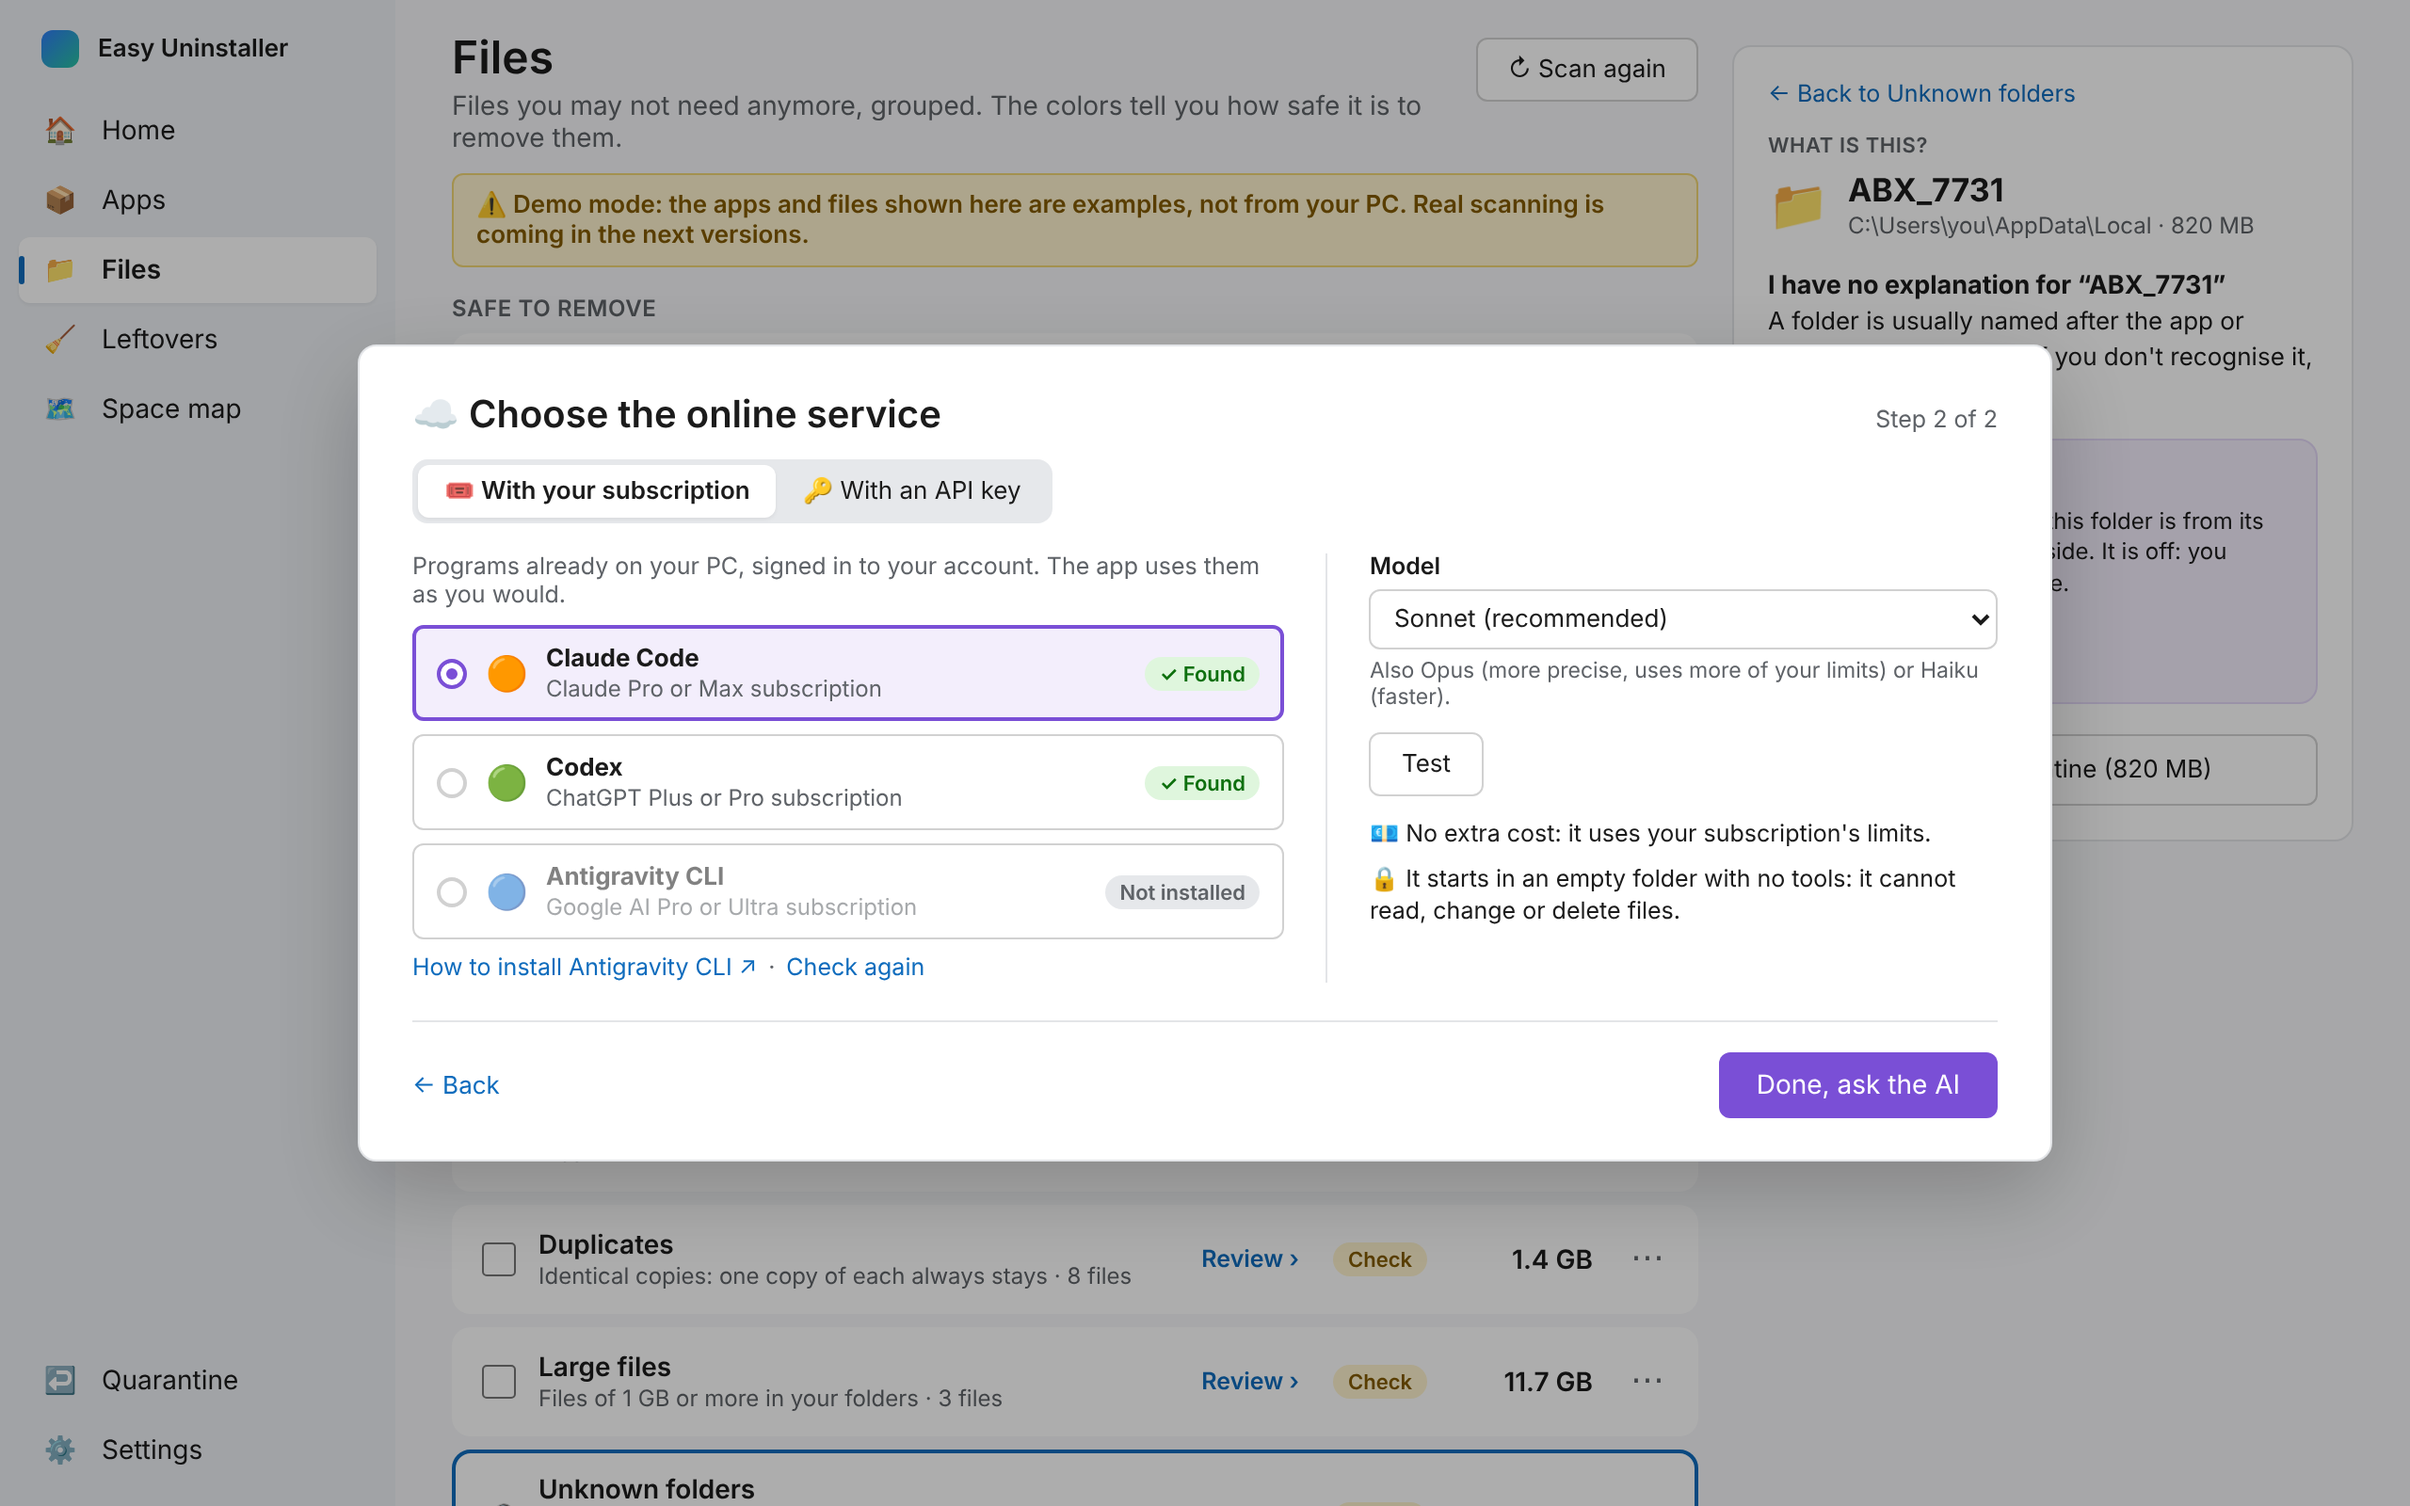
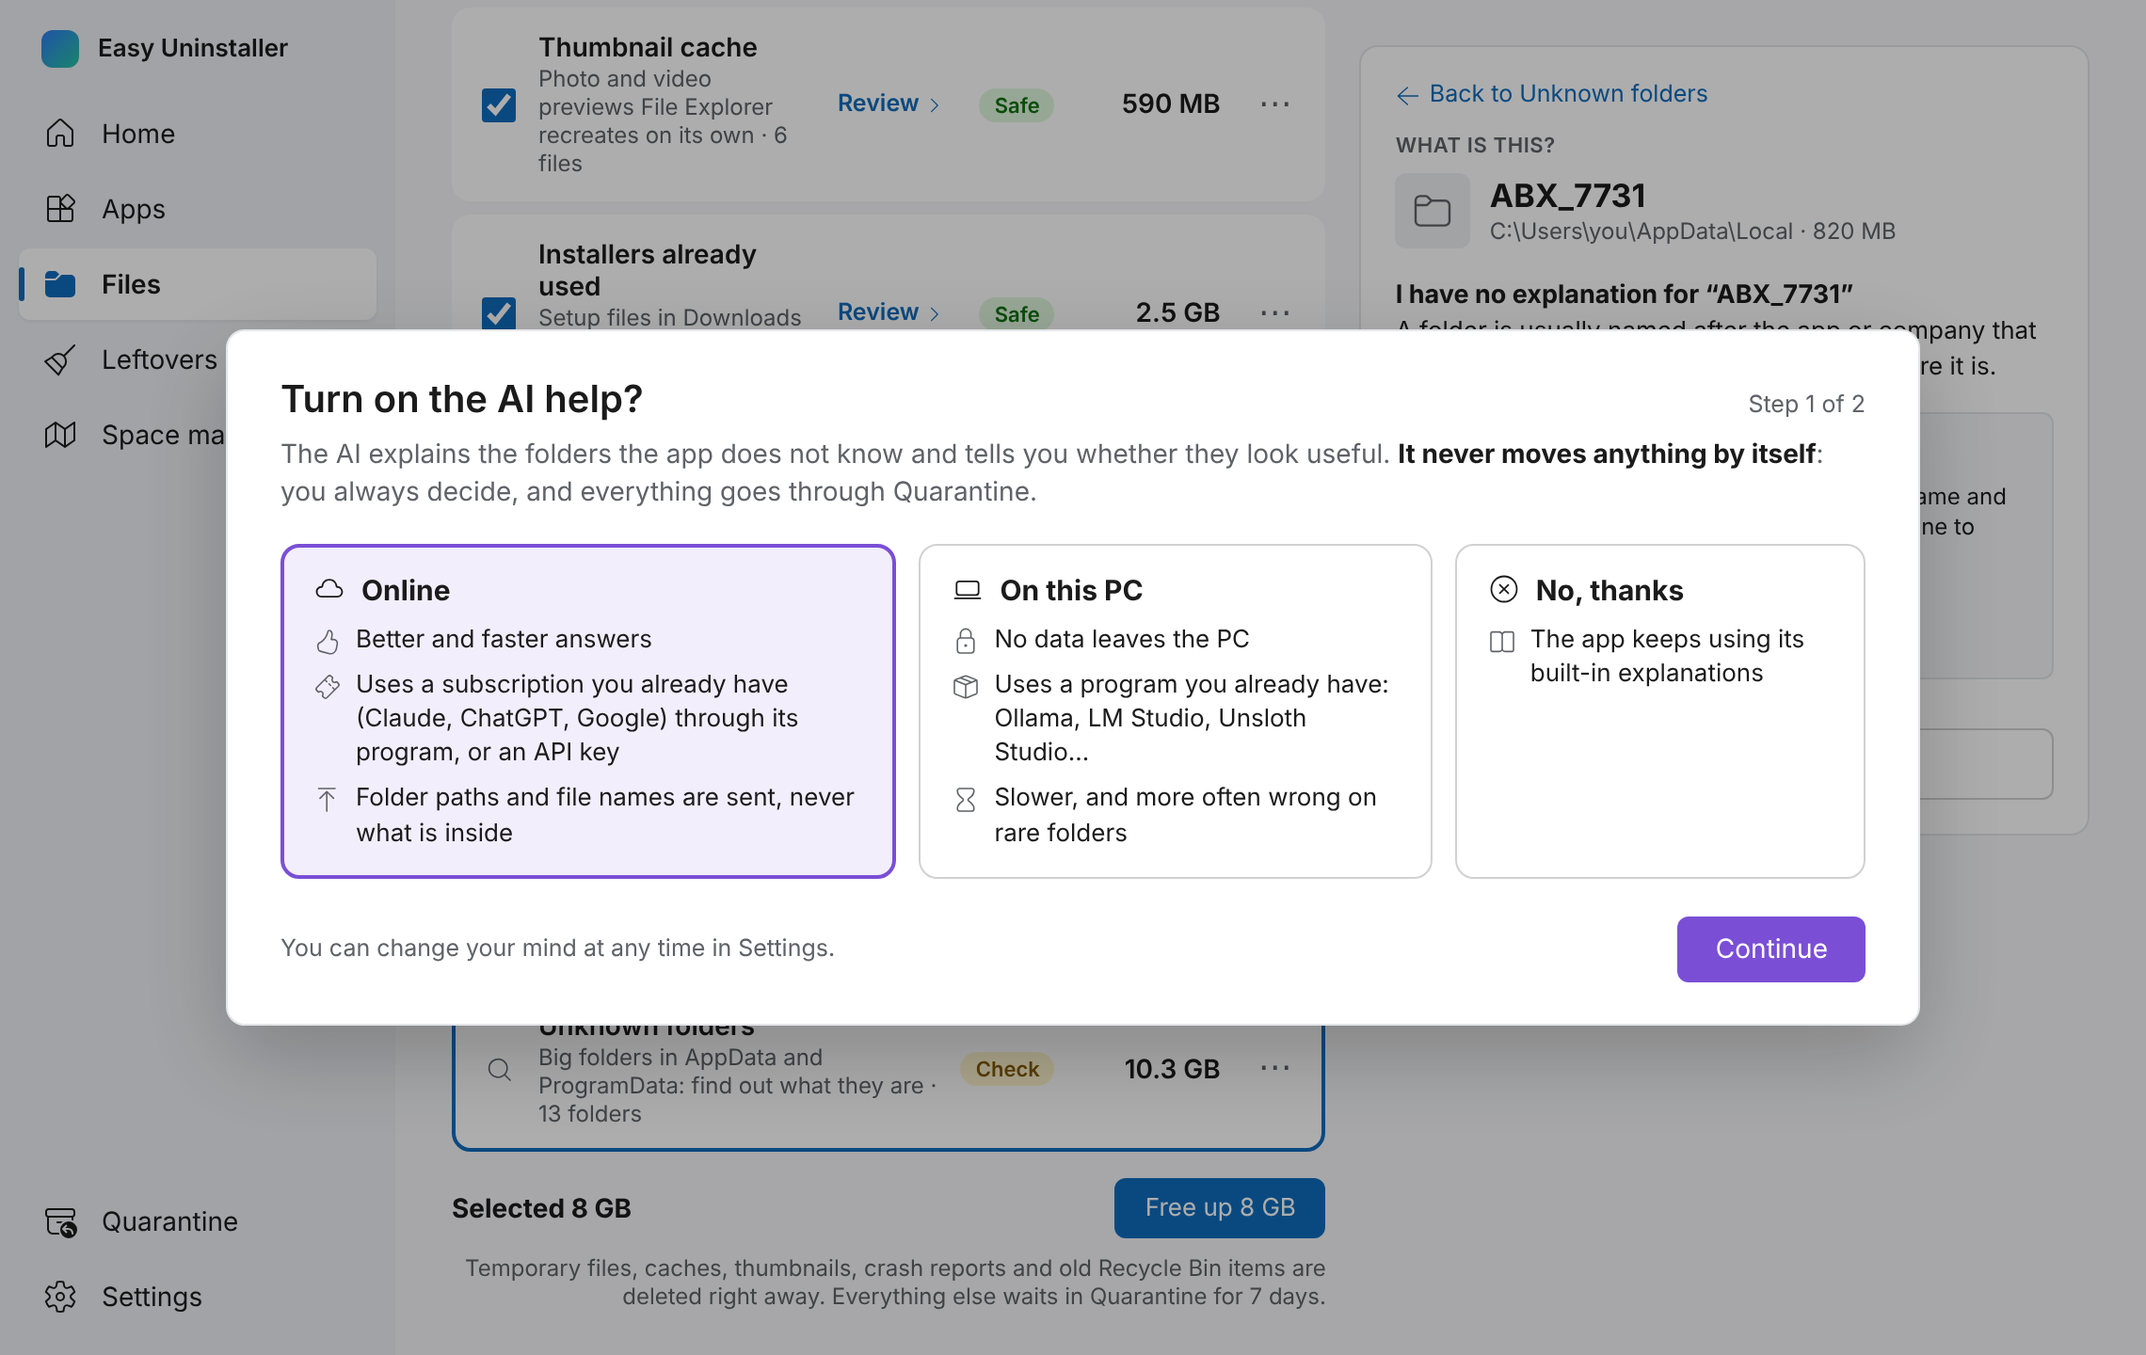
README for 0.2.0: new screenshots in the formal style, AI help and updates
Claude-Session: https://claude.ai/code/session_01MzT8SRt4U4XcH7yVvkHULf

diff --git a/README.md b/README.md
@@ -11,10 +11,11 @@ old Recycle Bin items, which nobody needs back: those are deleted right away.
 ![Easy Uninstaller home screen](docs/screenshots/home.png)
 
 > [!NOTE]
-> **Early preview.** Every screen works with real data: one-click uninstall with leftover
-> cleanup, Quick clean, the file scan with "What is this?" explanations, the space map,
-> the quarantine and restore points. It still needs more testing on real PCs before a
-> stable release. See the [roadmap](#roadmap).
+> **Version 0.2, first public preview.** Every screen works with real data: one-click
+> uninstall with leftover cleanup, Quick clean, the file scan with "What is this?"
+> explanations and optional AI help, the space map, the quarantine and restore points.
+> It updates itself from Settings. It still needs more testing on real PCs before a
+> stable 1.0. See the [roadmap](#roadmap).
 
 ## Why another uninstaller?
 
@@ -65,6 +66,10 @@ old Recycle Bin items, which nobody needs back: those are deleted right away.
 | **The AI's answer** | **Every unknown folder** |
 | ![The AI's answer, with what the app checked on this PC shown apart](docs/screenshots/ai-answer.png) | ![Asking the AI about every unknown folder at once](docs/screenshots/ai-all-folders.png) |
 
+| **Updates from Settings** |
+|---|
+| ![Settings: a new version is available, Update now](docs/screenshots/settings-updates.png) |
+
 <sub>Screenshots use sample data.</sub>
 
 ## Download and install
@@ -80,6 +85,9 @@ old Recycle Bin items, which nobody needs back: those are deleted right away.
 > protected your PC"*. Click **More info**, then **Run anyway**. Signing is planned before
 > the first stable release. Each release lists the SHA-256 checksum of the installer, so you
 > can check that the file you downloaded is the one built here.
+
+After that, the app keeps itself up to date: it checks for a new version each time it
+opens, and *Settings > Updates > Update now* installs it in a few seconds.
 
 To uninstall Easy Uninstaller itself, use *Settings > Apps > Installed apps* in Windows,
 like any other program.
@@ -161,8 +169,10 @@ maintainer privately for anything sensitive.
     Codex, Antigravity CLI), an API key (Claude, OpenAI, Gemini, OpenRouter, any OpenAI-compatible
     service) or a model on this PC (Ollama, LM Studio, Unsloth Studio). Only names and numbers are
     sent; the answer is advice in its own purple tag and never moves or ticks anything
-13. ✅ In-app updates from Settings, signed and checked before installing
-14. ⬜ Signed installer and first stable release
+13. ✅ A more formal look: monochrome line icons instead of emoji
+14. ✅ In-app updates from Settings, signed and checked before installing
+15. ✅ First public release, 0.2.0
+16. ⬜ Code-signed installer (SignPath) and a stable 1.0
 
 ## Development
 
